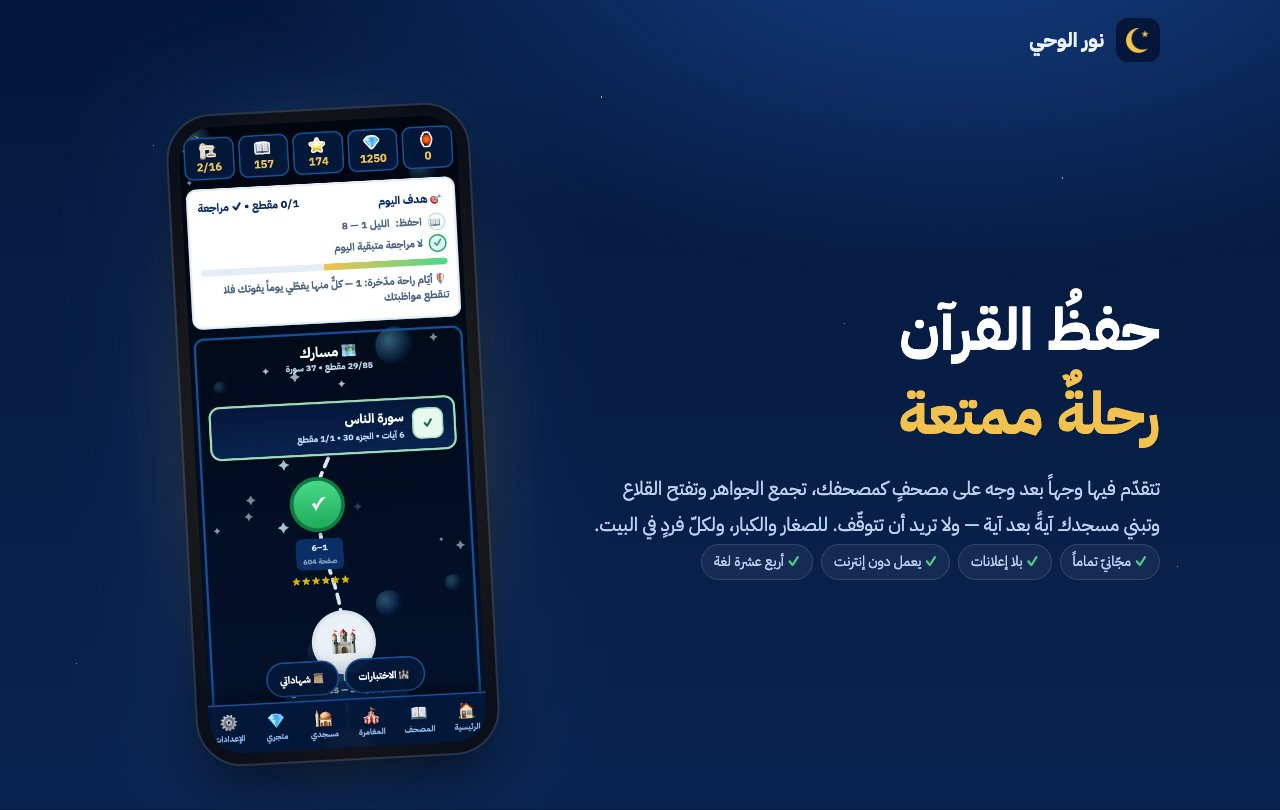
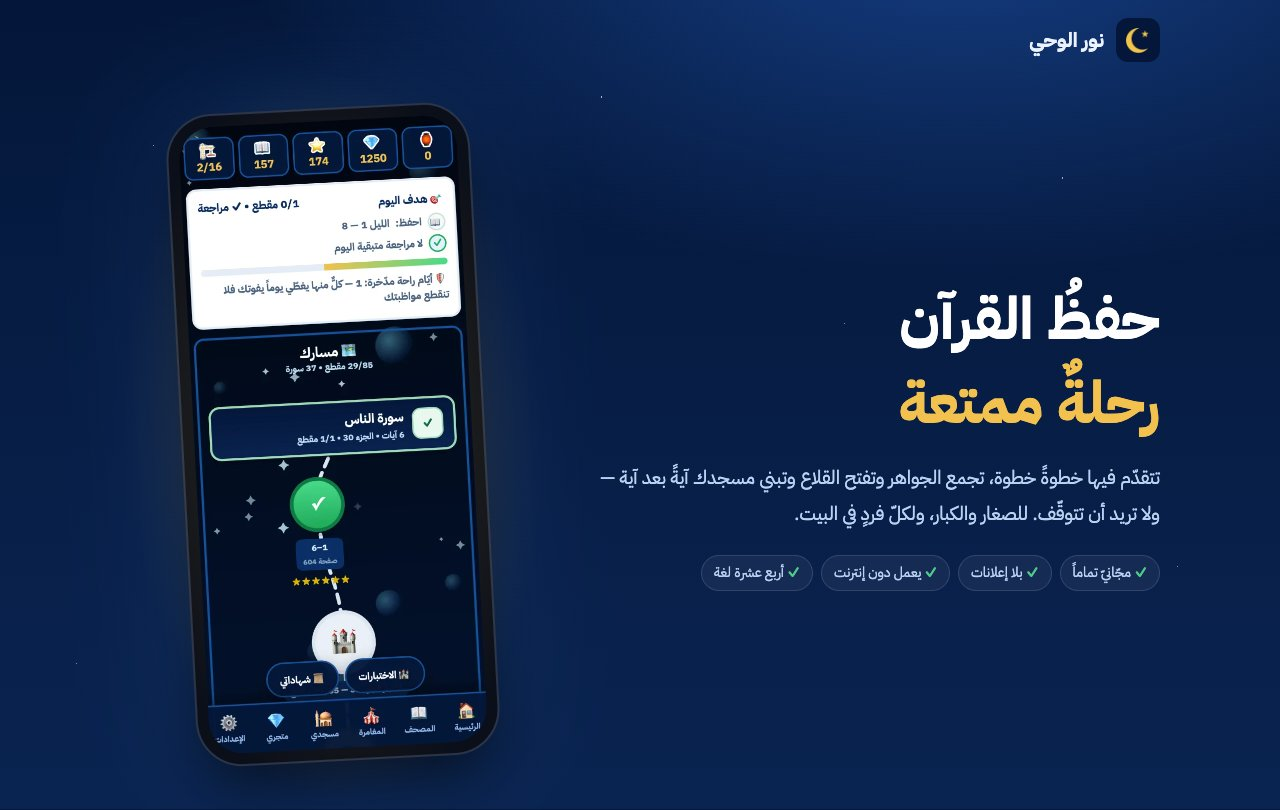
🎮 صفحةُ الهبوط وصفحةُ GitHub معاً: «تتقدّم فيها خطوةً خطوة» بدل «وجهاً بعد وجه على مصحفٍ كمصحفك» بأربع عشرة لغة، وشريطُ لقطاتٍ للألعاب الثلاث وهي تُلعب (عدّاء الآيات ورفّ الآيات وعصفور الآيات) بلغة الزائر وأسمائها من قواميس التطبيق — وأداةُ التقاطها scripts/store/capture-games.cjs

Changed region(s): [[0.4688, 0.5864, 0.9062, 0.7407], [0.6875, 0.3395, 0.9062, 0.5556]]

diff --git a/get/i18n.js b/get/i18n.js
@@ -2,6 +2,9 @@
    mean: ترجمةُ معنى آية الخاتمة (القمر ١٧) من data/tr — والماليزيّة بلا ترجمةٍ معتمدة فلا سطرَ لها */
 var L10N = {
  en: {
+   "gm_runner": "Ayah Runner",
+   "gm_shelf": "Ayah shelf",
+   "gm_bird": "Ayah Bird",
    "apk_b": "Android file",
    "apk_q": "No Google Play on your device?",
    "apk_a": "Download the APK",
@@ -11,7 +14,7 @@ var L10N = {
    "web": "Try it in your browser",
    "h1a": "Memorizing the Quran",
    "h1b": "a fun journey",
-   "lead": "Move forward page by page on a Mushaf just like yours, collect gems, open castles and build your mosque ayah by ayah — and you won't want to stop. For young and old, and for everyone at home.",
+   "lead": "Move forward step by step, collect gems, open castles and build your mosque ayah by ayah — and you won't want to stop. For young and old, and for everyone at home.",
    "p1": "Completely free",
    "p2": "No ads",
    "p3": "Works offline",
@@ -66,6 +69,9 @@ var L10N = {
    "mean": "We have certainly made the Qur’an easy to understand and remember; is there anyone to take heed?"
   },
  ur: {
+   "gm_runner": "آیات کا دوڑنے والا",
+   "gm_shelf": "آیات کی الماری",
+   "gm_bird": "آیات کی چڑیا",
    "apk_b": "اینڈرائیڈ فائل",
    "apk_q": "آپ کے آلے پر Google Play نہیں ہے؟",
    "apk_a": "APK فائل ڈاؤن لوڈ کریں",
@@ -75,7 +81,7 @@ var L10N = {
    "web": "براؤزر میں آزمائیں",
    "h1a": "حفظِ قرآن",
    "h1b": "ایک پُرلطف سفر",
-   "lead": "آپ اپنے مصحف جیسے مصحف پر صفحہ بہ صفحہ آگے بڑھتے ہیں، جواہر جمع کرتے ہیں، قلعے کھولتے ہیں اور آیت بہ آیت اپنی مسجد بناتے ہیں — اور رکنے کو جی نہیں چاہتا۔ چھوٹوں اور بڑوں کے لیے، گھر کے ہر فرد کے لیے۔",
+   "lead": "آپ قدم بہ قدم آگے بڑھتے ہیں، جواہر جمع کرتے ہیں، قلعے کھولتے ہیں اور آیت بہ آیت اپنی مسجد بناتے ہیں — اور رکنے کو جی نہیں چاہتا۔ چھوٹوں اور بڑوں کے لیے، گھر کے ہر فرد کے لیے۔",
    "p1": "بالکل مفت",
    "p2": "بغیر اشتہار",
    "p3": "انٹرنیٹ کے بغیر چلتی ہے",
@@ -130,6 +136,9 @@ var L10N = {
    "mean": "اور بیشک ہم نے قرآن کو سمجھنے کے لیے آسان کر دیا ہے ۔ پس کیا کوئی نصیحت حاصل کرنے والا ہے؟"
   },
  fa: {
+   "gm_runner": "دوندهٔ آیات",
+   "gm_shelf": "طاقچهٔ آیات",
+   "gm_bird": "گنجشکِ آیات",
    "apk_b": "فایل اندروید",
    "apk_q": "Google Play روی دستگاه شما نیست؟",
    "apk_a": "فایل APK را دانلود کنید",
@@ -139,7 +148,7 @@ var L10N = {
    "web": "در مرورگر امتحانش کنید",
    "h1a": "حفظ قرآن",
    "h1b": "سفری شیرین",
-   "lead": "روی مصحفی درست مانند مصحف خودت صفحه به صفحه پیش میروی، جواهر جمع میکنی، قلعهها را باز میکنی و مسجدت را آیه به آیه میسازی — و دلت نمیخواهد دست بکشی. برای خُرد و بزرگ، و برای هر کسی در خانه.",
+   "lead": "قدم به قدم پیش میروی، جواهر جمع میکنی، قلعهها را باز میکنی و مسجدت را آیه به آیه میسازی — و دلت نمیخواهد دست بکشی. برای خُرد و بزرگ، و برای هر کسی در خانه.",
    "p1": "کاملاً رایگان",
    "p2": "بدون اعلان",
    "p3": "بدون انترنت هم کار میکند",
@@ -194,6 +203,9 @@ var L10N = {
    "mean": "به راستی که قرآن را براى پند گرفتن آسان ساختیم؛ آیا پندپذیرى هست؟"
   },
  ps: {
+   "gm_runner": "د آیتونو منډه وهونکی",
+   "gm_shelf": "د آیتونو المارۍ",
+   "gm_bird": "د آیتونو مرغۍ",
    "apk_b": "د اندروید فایل",
    "apk_q": "ستاسو په وسیله Google Play نشته؟",
    "apk_a": "د APK فایل ډاونلوډ کړئ",
@@ -203,7 +215,7 @@ var L10N = {
    "web": "په براوزر کې یې وازمویئ",
    "h1a": "د قرآن حفظ",
    "h1b": "یو خوندور سفر",
-   "lead": "د خپل مصحف په څېر مصحف کې مخ په مخ وړاندې ځئ، جواهر راټولوئ، کلاوې پرانیزئ او خپل جومات آیت په آیت جوړوئ — او زړه مو نه غواړي چې ودرېږئ. د ماشومانو او لویانو لپاره، د کور د هر غړي لپاره.",
+   "lead": "ګام په ګام وړاندې ځئ، جواهر راټولوئ، کلاوې پرانیزئ او خپل جومات آیت په آیت جوړوئ — او زړه مو نه غواړي چې ودرېږئ. د ماشومانو او لویانو لپاره، د کور د هر غړي لپاره.",
    "p1": "بشپړ وړیا",
    "p2": "بې اعلانه",
    "p3": "بې انټرنېټه کار کوي",
@@ -258,6 +270,9 @@ var L10N = {
    "mean": "او بېشكه موږ قرآن د پوهېدلو (تلاوت) لپاره آسان كړى نو آيا څوک نصيحت اخيستونكى شته؟"
   },
  tr: {
+   "gm_runner": "Ayet Koşucusu",
+   "gm_shelf": "Ayet rafı",
+   "gm_bird": "Ayet Kuşu",
    "apk_b": "Android dosyası",
    "apk_q": "Cihazınızda Google Play yok mu?",
    "apk_a": "APK dosyasını indirin",
@@ -267,7 +282,7 @@ var L10N = {
    "web": "Tarayıcında dene",
    "h1a": "Kur'an ezberlemek",
    "h1b": "keyifli bir yolculuk",
-   "lead": "Tıpkı seninki gibi bir Mushaf üzerinde sayfa sayfa ilerlersin; mücevher toplar, kaleler açar, camini ayet ayet inşa edersin — ve durmak istemezsin. Küçükler ve büyükler için, evdeki herkes için.",
+   "lead": "Adım adım ilerlersin; mücevher toplar, kaleler açar, camini ayet ayet inşa edersin — ve durmak istemezsin. Küçükler ve büyükler için, evdeki herkes için.",
    "p1": "Tamamen ücretsiz",
    "p2": "Reklamsız",
    "p3": "İnternetsiz çalışır",
@@ -322,6 +337,9 @@ var L10N = {
    "mean": "Andolsun ki, Kur'an'ı öğüt alınması için kolaylaştırdık. Fakat öğüt alan var mı?"
   },
  fr: {
+   "gm_runner": "Le coureur des versets",
+   "gm_shelf": "Étagère des versets",
+   "gm_bird": "L’oiseau des versets",
    "apk_b": "Fichier Android",
    "apk_q": "Pas de Google Play sur votre appareil ?",
    "apk_a": "Télécharger l’APK",
@@ -331,7 +349,7 @@ var L10N = {
    "web": "L'essayer dans le navigateur",
    "h1a": "Apprendre le Coran par cœur,",
    "h1b": "un voyage joyeux",
-   "lead": "On avance page après page sur un Mushaf identique au vôtre, on gagne des pierres précieuses, on ouvre des châteaux et on bâtit sa mosquée verset après verset — et on n'a plus envie de s'arrêter. Pour les petits comme pour les grands, et pour toute la maison.",
+   "lead": "On avance pas à pas, on gagne des pierres précieuses, on ouvre des châteaux et on bâtit sa mosquée verset après verset — et on n'a plus envie de s'arrêter. Pour les petits comme pour les grands, et pour toute la maison.",
    "p1": "Entièrement gratuit",
    "p2": "Sans publicité",
    "p3": "Fonctionne hors ligne",
@@ -386,6 +404,9 @@ var L10N = {
    "mean": "Nous avons rendu le Coran aisé à comprendre. Y a-t-il quelqu’un pour en méditer les enseignements?"
   },
  id: {
+   "gm_runner": "Pelari Ayat",
+   "gm_shelf": "Rak ayat",
+   "gm_bird": "Burung Ayat",
    "apk_b": "File Android",
    "apk_q": "Tidak ada Google Play di perangkat Anda?",
    "apk_a": "Unduh file APK",
@@ -395,7 +416,7 @@ var L10N = {
    "web": "Coba di browser",
    "h1a": "Menghafal Al-Qur'an,",
    "h1b": "perjalanan yang seru",
-   "lead": "Maju halaman demi halaman di Mushaf yang sama seperti milikmu, kumpulkan permata, buka benteng, dan bangun masjidmu ayat demi ayat — sampai tidak ingin berhenti. Untuk anak-anak dan orang dewasa, untuk semua orang di rumah.",
+   "lead": "Maju selangkah demi selangkah, kumpulkan permata, buka benteng, dan bangun masjidmu ayat demi ayat — sampai tidak ingin berhenti. Untuk anak-anak dan orang dewasa, untuk semua orang di rumah.",
    "p1": "Gratis sepenuhnya",
    "p2": "Tanpa iklan",
    "p3": "Bisa tanpa internet",
@@ -450,6 +471,9 @@ var L10N = {
    "mean": "Dan sesungguhnya telah Kami mudahkan Al-Qur`ān untuk pelajaran, maka adakah orang yang mengambil pelajaran?"
   },
  ms: {
+   "gm_runner": "Pelari Ayat",
+   "gm_shelf": "Rak ayat",
+   "gm_bird": "Burung Ayat",
    "apk_b": "Fail Android",
    "apk_q": "Tiada Google Play pada peranti anda?",
    "apk_a": "Muat turun fail APK",
@@ -459,7 +483,7 @@ var L10N = {
    "web": "Cuba dalam pelayar",
    "h1a": "Menghafaz al-Quran,",
    "h1b": "perjalanan yang seronok",
-   "lead": "Maju halaman demi halaman pada Mushaf yang sama seperti mushaf kamu, kumpul permata, buka kubu dan bina masjid kamu ayat demi ayat — sampai tidak mahu berhenti. Untuk kecil dan besar, untuk semua di rumah.",
+   "lead": "Maju selangkah demi selangkah, kumpul permata, buka kubu dan bina masjid kamu ayat demi ayat — sampai tidak mahu berhenti. Untuk kecil dan besar, untuk semua di rumah.",
    "p1": "Percuma sepenuhnya",
    "p2": "Tiada iklan",
    "p3": "Boleh tanpa internet",
@@ -513,6 +537,9 @@ var L10N = {
    "webv": "Versi web"
   },
  bn: {
+   "gm_runner": "আয়াতের দৌড়বিদ",
+   "gm_shelf": "আয়াতের তাক",
+   "gm_bird": "আয়াতের পাখি",
    "apk_b": "অ্যান্ড্রয়েড ফাইল",
    "apk_q": "আপনার ডিভাইসে Google Play নেই?",
    "apk_a": "APK ফাইল ডাউনলোড করুন",
@@ -522,7 +549,7 @@ var L10N = {
    "web": "ব্রাউজারে চালিয়ে দেখুন",
    "h1a": "কুরআন হিফজ",
    "h1b": "এক আনন্দময় যাত্রা",
-   "lead": "আপনার মুসহাফের মতোই এক মুসহাফে পৃষ্ঠার পর পৃষ্ঠা এগিয়ে যান, রত্ন জমান, দুর্গ খুলুন আর আয়াতে আয়াতে নিজের মসজিদ গড়ুন — থামতেই ইচ্ছা করবে না। ছোট-বড় সবার জন্য, ঘরের প্রত্যেকের জন্য।",
+   "lead": "ধাপে ধাপে এগিয়ে যান, রত্ন জমান, দুর্গ খুলুন আর আয়াতে আয়াতে নিজের মসজিদ গড়ুন — থামতেই ইচ্ছা করবে না। ছোট-বড় সবার জন্য, ঘরের প্রত্যেকের জন্য।",
    "p1": "সম্পূর্ণ বিনামূল্যে",
    "p2": "বিজ্ঞাপন নেই",
    "p3": "ইন্টারনেট ছাড়াও চলে",
@@ -577,6 +604,9 @@ var L10N = {
    "mean": "আর অবশ্যই আমি উপদেশ গ্রহণের জন্য আল-কুরআনকে সহজ করে দিয়েছি। অতএব (এর থেকে) কোন উপদেশ গ্রহণকারী আছে কি?"
   },
  sw: {
+   "gm_runner": "Mkimbiaji wa Aya",
+   "gm_shelf": "Rafu ya aya",
+   "gm_bird": "Ndege wa Aya",
    "apk_b": "Faili la Android",
    "apk_q": "Huna Google Play kwenye kifaa chako?",
    "apk_a": "Pakua faili la APK",
@@ -586,7 +616,7 @@ var L10N = {
    "web": "Ijaribu kwenye kivinjari",
    "h1a": "Kuhifadhi Qurani",
    "h1b": "ni safari ya kufurahisha",
-   "lead": "Songa mbele ukurasa baada ya ukurasa kwenye Msahafu kama ule ulio nao, kusanya vito, fungua ngome na ujenge msikiti wako aya baada ya aya — hutataka kuacha. Kwa wadogo na wakubwa, na kwa kila mtu nyumbani.",
+   "lead": "Songa mbele hatua kwa hatua, kusanya vito, fungua ngome na ujenge msikiti wako aya baada ya aya — hutataka kuacha. Kwa wadogo na wakubwa, na kwa kila mtu nyumbani.",
    "p1": "Bure kabisa",
    "p2": "Bila matangazo",
    "p3": "Inafanya kazi bila intaneti",
@@ -641,6 +671,9 @@ var L10N = {
    "mean": "Na bila ya shaka Sisi tumeifanya Qur-ani iwe nyepesi kufahamika. Lakini yupo anayekumbuka?"
   },
  ha: {
+   "gm_runner": "Mai Gudun Ayoyi",
+   "gm_shelf": "Kantar ayoyi",
+   "gm_bird": "Tsuntsun Ayoyi",
    "apk_b": "Fayil ɗin Android",
    "apk_q": "Babu Google Play a wayarka?",
    "apk_a": "Sauke fayil ɗin APK",
@@ -650,7 +683,7 @@ var L10N = {
    "web": "Gwada ta a burauza",
    "h1a": "Haddar Alƙur’ani",
    "h1b": "tafiya ce mai daɗi",
-   "lead": "Ka ci gaba shafi bayan shafi a kan Mushafi irin naka, ka tara duwatsu masu daraja, ka buɗe ganuwoyi, ka gina masallacinka aya bayan aya — ba za ka so ka tsaya ba. Ga yara da manya, da kowa a gida.",
+   "lead": "Ka ci gaba mataki-mataki, ka tara duwatsu masu daraja, ka buɗe ganuwoyi, ka gina masallacinka aya bayan aya — ba za ka so ka tsaya ba. Ga yara da manya, da kowa a gida.",
    "p1": "Kyauta ce gaba ɗaya",
    "p2": "Babu talla",
    "p3": "Tana aiki ba tare da intanet ba",
@@ -705,6 +738,9 @@ var L10N = {
    "mean": "Kuma lalle ne, haƙĩkƙa, Mun sauƙaƙe Alƙur'ãni, dõmin tunãwa. To, shin, akwai mai tunãwa?"
   },
  so: {
+   "gm_runner": "Orodyahanka Aayadaha",
+   "gm_shelf": "Khaanadda aayadaha",
+   "gm_bird": "Shimbirta Aayadaha",
    "apk_b": "Faylka Android",
    "apk_q": "Google Play kuma jiro qalabkaaga?",
    "apk_a": "Soo deji faylka APK",
@@ -714,7 +750,7 @@ var L10N = {
    "web": "Ku tijaabi biraawsarka",
    "h1a": "Xifdiga Qur’aanku",
    "h1b": "waa safar xiiso leh",
-   "lead": "Bog bog ugu gudub Mushaf la mid ah kaaga, ururi dhagxaan qaali ah, fur qalcado oo masjidkaaga aayad aayad u dhis — mana doonaysid inaad joojiso. Yar iyo weyn, iyo qof kasta oo guriga jooga.",
+   "lead": "Tallaabo tallaabo u gudub, ururi dhagxaan qaali ah, fur qalcado oo masjidkaaga aayad aayad u dhis — mana doonaysid inaad joojiso. Yar iyo weyn, iyo qof kasta oo guriga jooga.",
    "p1": "Gebi ahaanba bilaash",
    "p2": "Xayaysiis la’aan",
    "p3": "Internet la’aan ayuu ku shaqeeyaa",
@@ -769,6 +805,9 @@ var L10N = {
    "mean": "Waxaanu dhabtii sahalnay Qur’aanka si loo xusuusto, mase jiraa cid waantoobi?"
   },
  uz: {
+   "gm_runner": "Oyat yuguruvchisi",
+   "gm_shelf": "Oyat javoni",
+   "gm_bird": "Oyat qushi",
    "apk_b": "Android fayli",
    "apk_q": "Qurilmangda Google Play yoʻqmi?",
    "apk_a": "APK faylni yuklab ol",
@@ -778,7 +817,7 @@ var L10N = {
    "web": "Brauzerda sinab koʻr",
    "h1a": "Qurʼon yodlash",
    "h1b": "qiziqarli sayohat",
-   "lead": "Oʻzingnikidek Mushafda sahifama-sahifa oldinga yur, javohirlar yigʻ, qalʼalarni och va masjidingni oyatma-oyat qur — toʻxtagining kelmaydi. Kichigu katta, uydagi har bir kishi uchun.",
+   "lead": "Qadamma-qadam oldinga yur, javohirlar yigʻ, qalʼalarni och va masjidingni oyatma-oyat qur — toʻxtagining kelmaydi. Kichigu katta, uydagi har bir kishi uchun.",
    "p1": "Butunlay bepul",
    "p2": "Reklamasiz",
    "p3": "Internetsiz ishlaydi",

diff --git a/get/index.html b/get/index.html
@@ -135,6 +135,10 @@ h2{font-size:clamp(26px,4.2vw,38px);color:#fff}
 .step .n{display:inline-grid;place-items:center;width:28px;height:28px;border-radius:50%;
   background:var(--gold);color:#0a1f45;font-weight:700;font-size:14px;margin-bottom:6px}
 
+.games{display:grid;grid-template-columns:repeat(3,1fr);gap:22px;margin:56px 0 0}
+.games figure{margin:0;text-align:center}
+.games img{width:100%;height:auto;aspect-ratio:3/4;object-fit:cover;object-position:top;border-radius:22px;border:3px solid #ffffff22;box-shadow:0 18px 40px -16px #000a}
+.games figcaption{font-size:17px;font-weight:700;color:#fff;margin-top:10px}
 /* القصص */
 .tales{display:grid;grid-template-columns:repeat(3,1fr);gap:14px;margin-top:26px;max-width:480px}
 .tales img{width:100%;aspect-ratio:1;border-radius:18px;border:3px solid #ffffff22;object-fit:cover}
@@ -197,6 +201,8 @@ html:is([lang=tr],[lang=bn],[lang=ha],[lang=uz]) body{font-family:system-ui,-app
   .lpick{max-width:140px}
   .store{flex:1 1 100%;justify-content:center}
   .step .phone{max-width:150px}
+  .games{display:flex;overflow-x:auto;margin:40px -16px 0;padding:0 16px 8px;gap:14px;scrollbar-width:none}
+  .games figure{flex:none;width:230px}
   .tales{display:flex;overflow-x:auto;max-width:none;margin-inline:-16px;padding:0 16px 6px;scrollbar-width:none}
   .tales img{width:120px;flex:none}
   .trust div{padding:16px 10px}
@@ -218,7 +224,7 @@ html:is([lang=tr],[lang=bn],[lang=ha],[lang=uz]) body{font-family:system-ui,-app
     <div class="hero">
       <div>
         <h1><span data-t="h1a">حفظُ القرآن</span><br><em data-t="h1b">رحلةٌ ممتعة</em></h1>
-        <p class="lead" data-t="lead">تتقدّم فيها وجهاً بعد وجه على مصحفٍ كمصحفك، تجمع الجواهر وتفتح القلاع وتبني مسجدك آيةً بعد آية — ولا تريد أن تتوقّف. للصغار والكبار، ولكلّ فردٍ في البيت.</p>
+        <p class="lead" data-t="lead">تتقدّم فيها خطوةً خطوة، تجمع الجواهر وتفتح القلاع وتبني مسجدك آيةً بعد آية — ولا تريد أن تتوقّف. للصغار والكبار، ولكلّ فردٍ في البيت.</p>
         <div class="stores" data-stores></div>
         <ul class="pills">
           <li data-t="p1">مجّانيّ تماماً</li>
@@ -268,6 +274,11 @@ html:is([lang=tr],[lang=bn],[lang=ha],[lang=uz]) body{font-family:system-ui,-app
         </ul>
       </div>
       <div class="phone"><img src="img/6-build.webp" data-shot="6-build" alt="" loading="lazy" width="540" height="1169"></div>
+    </div>
+    <div class="games">
+      <figure><img src="img/g-runner.webp" data-gshot="runner" alt="" loading="lazy" width="540" height="723"><figcaption data-t="gm_runner">عدّاء الآيات</figcaption></figure>
+      <figure><img src="img/g-shelf.webp" data-gshot="shelf" alt="" loading="lazy" width="540" height="723"><figcaption data-t="gm_shelf">رفّ الآيات</figcaption></figure>
+      <figure><img src="img/g-bird.webp" data-gshot="bird" alt="" loading="lazy" width="540" height="723"><figcaption data-t="gm_bird">عصفور الآيات</figcaption></figure>
     </div>
 
     <div class="row flip">
@@ -381,6 +392,7 @@ if(D){
   if(D.desc) document.querySelector('meta[name=description]').content = D.desc;
   /* لقطاتُ التطبيق بلغته */
   document.querySelectorAll('[data-shot]').forEach(function(img){ img.src='img/'+LANG+'/'+img.getAttribute('data-shot')+'.webp'; });
+  document.querySelectorAll('[data-gshot]').forEach(function(img){ var ar=img.src; img.onerror=function(){ img.onerror=null; img.src=ar; }; img.src='img/'+LANG+'/g-'+img.getAttribute('data-gshot')+'.webp'; });   /* لغةٌ لم تُلتقط ألعابُها بعد: العربيّة */
   if(D.mean){ var m=document.querySelector('[data-mean]'); m.textContent=D.mean; m.hidden=false; }
   var DIG = RTL[LANG] ? '۰۱۲۳۴۵۶۷۸۹' : '0123456789';
   document.querySelectorAll('.step .n').forEach(function(n,i){ n.textContent=DIG[i+1]; });

diff --git a/README.md b/README.md
@@ -44,6 +44,8 @@
 - 📚 أكثر من ستّين قصّةً مصوّرة تُفتح في الطريق، وتصل الجديدةُ منها وحدها
 - 💎 جواهر وشارات، وشهادة إتمامٍ تشاركها أهلك
 
+<p align="center"><img src=".github/readme/games.png" alt="عدّاء الآيات، رفّ الآيات، عصفور الآيات" width="100%"></p>
+
 ## 🏠 للبيت كلّه
 
 حسابٌ لكلّ فردٍ في البيت على الجهاز نفسه، و«لوحة البيت» تجمع تقدّم الجميع فيتنافسون في الخير، بلا منافسةٍ مع أحدٍ من خارج البيت.
